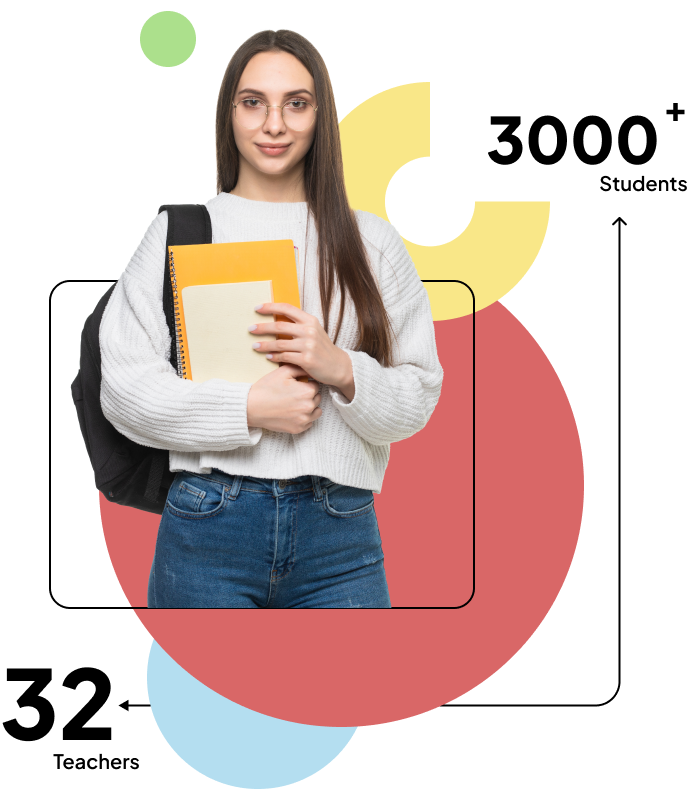
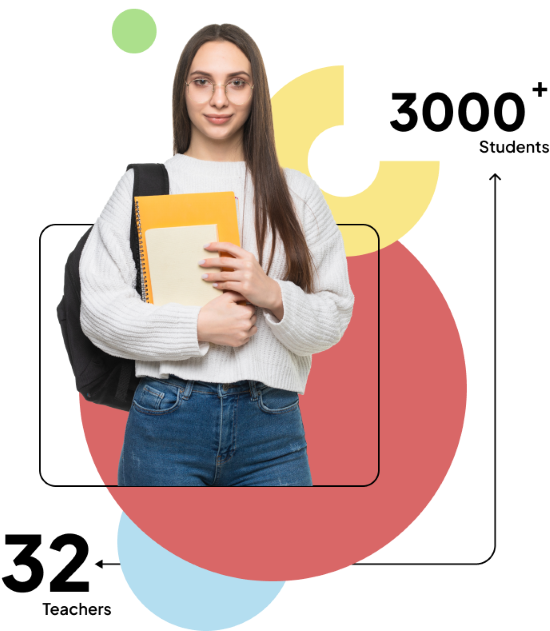
login finish

diff --git a/src/Pages/Login.js b/src/Pages/Login.js
@@ -12,18 +12,18 @@ import {
   colors,
   Card,
 } from "@mui/material";
-import image from "./Group 72.png";
+// import image from "./Group 72.png";
+import image2 from "./login image.png";
 import { red } from "@mui/material/colors";
-import { Navigate } from "react-router";
+import { useNavigate } from "react-router-dom";
 
 const Login = () => {
   const handleSubmit = () => {};
 
   const clickAlert = () => {
-    
-    alert("Hello")
-
   };
+
+  const navigate = useNavigate();
 
   return (
     <>
@@ -35,7 +35,7 @@ const Login = () => {
               <Grid item>
               <Button
             className="btn-reg"
-            style={{ backgroundColor: "#d96767" }}
+            style={{ backgroundColor: "#d96767" , margin:"20px"}}
             variant="contained"
           >
             Register
@@ -43,21 +43,19 @@ const Login = () => {
               </Grid>
             </Grid>
       </Grid>
-      <Grid container component="main">
+      <Grid container component="main" style={{justifyContent:"space-evenly"}}>
         <Grid item lg={6} md={6} sm={12} xs={12}>
-          <img style={{ width: "100%" }} src={image} />
+          <img style={{ width: "100%" }} src={image2} />
         </Grid>
 
-        <Grid
-          style={{ height: "40rem", marginTop: "5rem" }}
+        <Card
+          style={{ width:"500px", height:"fit-content", marginTop:"8%", justifyContent:"center"}}
           item
           lg={6}
           md={6}
           sm={12}
           xs={12}
-          component={Paper}
-          squarero
-          elevation={2}
+          
         >
           <Box
             sx={{
@@ -107,10 +105,9 @@ const Login = () => {
                 label="Remember Me"
               />
 
-              <Link href="#" variant="body2" style={{ textDecoration: "none", justifyContent:"space-between", color:"#d96767", fontWeight:"bolder", marginLeft:"50%"}}>
+              <Link href="#" variant="body2" style={{ textDecoration: "none", justifyContent:"space-between", color:"#d96767", fontWeight:"bolder", marginLeft:"30%"}}>
                 Forgot Password?
               </Link>
-
               <Button
                 fullWidth
                 style={{
@@ -120,8 +117,12 @@ const Login = () => {
                 type="submit"
                 variant="contained"
                 sx={{ mt: 3, mb: 2 }}
+
+                onClick={() => {
+                  navigate("/home")
+              }}
               >
-                LogIn
+                Log In
               </Button>
               <label
                 className="custom-control-form"
@@ -148,7 +149,7 @@ const Login = () => {
               </a>
             </Box>
           </Box>
-        </Grid>
+       </Card>
       </Grid>
     </>
   );

diff --git a/src/App.js b/src/App.js
@@ -9,7 +9,6 @@ function App() {
    <Router>
     <Routes path='./' element={<Login/>}>
       <Route index element={<Login/>}/>
-      <Route index element={<Homepage/>}/>
     </Routes>
    </Router>
   );

diff --git a/src/Pages/Homepage.js b/src/Pages/Homepage.js
@@ -3,7 +3,7 @@ import React from 'react'
 const Homepage = () => {
   return (
     <div>
-      
+      <h1>Hello</h1>
     </div>
   )
 }
